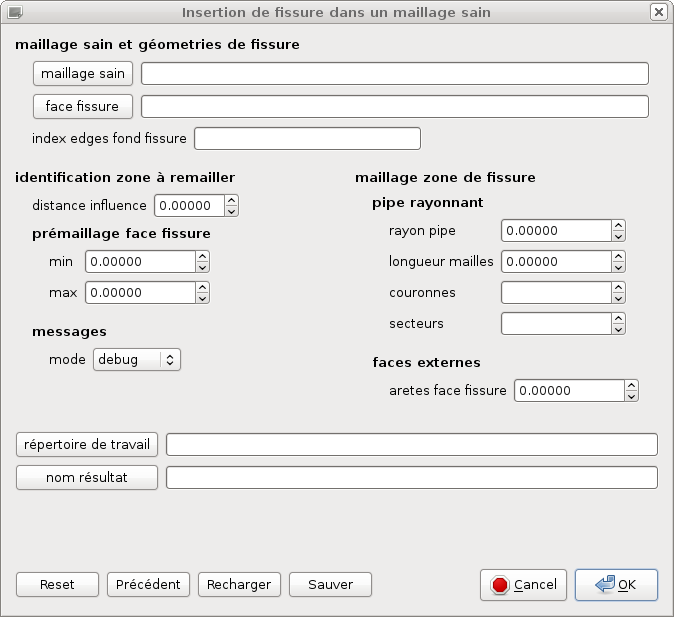
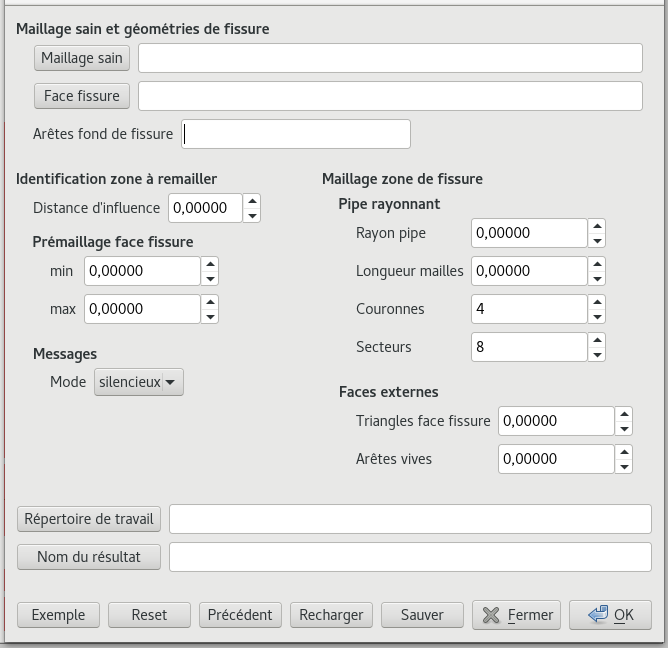
Mise à jour documentation

diff --git a/src/Tools/blocFissure/doc/gui.rst b/src/Tools/blocFissure/doc/gui.rst
@@ -6,23 +6,30 @@ With GUI
 To make the use of « Bloc Fissure » easier, a Graphical User Interface (GUI) was developed.
 Inputs are similar to those of :ref:`script mode <script>`. GUI is accessible in the SMESH extension *Add a crack in a mesh*
 
-.. figure:: images/BF_GUI_capture.png
-   :width: 700
+.. image:: images/BF_GUI_capture.png
+   :scale: 100
    :align: center
+   :alt: Window of the graphical interface
 
-   Windows of the graphical interface
+Window of the graphical interface
 
 +------------------------------------------------------------------------------------------------------------------+
 |       GUI parameters                                                                                             |
 +======================+===================================+=======================================================+
-| **maillageSain**     | *[string]*                        |  Relative address of the input structure 3D mesh      |
+| **Maillage sain**    | *[string]*                        |  Relative address of the input structure 3D mesh      |
 |                      | ex: mesh/maillage.med             |  in MED format (base is repertoire de travail)        |
 +----------------------+-----------------------------------+-------------------------------------------------------+
-| **FaceFissure**      | *[string]*                        |  Relative address of the input crack geometry         |
-|                      | ex: mesh/fissure.brep             |  in BREP format (base is repertoire de travail)       |
+| **Face fissure**     | *[string]*                        |  Relative address of the input crack geometry in      |
+|                      | ex: mesh/fissure.xao              |  BREP or XAO format (base is repertoire de travail)   |
 +----------------------+-----------------------------------+-------------------------------------------------------+
-| **index edges fond   | *[list of integers]*              |  List of edges number which define the crack front    |
-| fissure**            | ex: [1,2]                         |                                                       |
+| **Arêtes fond        | *[list of strings]*               |  Definition of the crack front:                       |
+| fissure**            | ex: ["F_1", "F_2"]                |  If XAO: list of the names of the edge group(s)       |
++----------------------+-----------------------------------+-------------------------------------------------------+
+|                      | *[list of integers]*              |  If BREP (or XAO): list of edges number in GEOM       |
+|                      | ex: [1,2]                         |                                                       |
++----------------------+-----------------------------------+-------------------------------------------------------+
+| **Distance           | *[float]*                         |  Length of influence - distance that defines the      |
+| d'influence**        | ex: 20.0000                       |  size of the extracted Box around the crack           |
 +----------------------+-----------------------------------+-------------------------------------------------------+
 | **min**              | *[float]*                         |  Float defining the minimum size of elements          |
 |                      | ex: 1.00000                       |  to mesh the crack                                    |
@@ -30,40 +37,40 @@ Inputs are similar to those of :ref:`script mode <script>`. GUI is accessible in
 | **max**              | *[float]*                         |  Float defining the maximum size of elements          |
 |                      | ex: 10.0000                       |  to mesh the crack                                    |
 +----------------------+-----------------------------------+-------------------------------------------------------+
-| **distance           | *[float]*                         |  Length of influence - distance that defines the      |
-| influence**          | ex: 20.0000                       |  size of the extracted Box around the crack           |
-+----------------------+-----------------------------------+-------------------------------------------------------+
-| **rayon pipe**       | *[float]*                         |  Radius of the tore around the front                  |
+| **Rayon pipe**       | *[float]*                         |  Radius of the tore around the front                  |
 |                      | ex: 5.00000                       |                                                       |
 +----------------------+-----------------------------------+-------------------------------------------------------+
-| **longueur mailles** | *[float]*                         |  Length of the segments of the tore along crack front |
+| **Longueur mailles** | *[float]*                         |  Length of the segments of the tore along crack front |
 |                      | ex: 5.00000                       |                                                       |
 +----------------------+-----------------------------------+-------------------------------------------------------+
-|  **couronnes**       | *[integer]*                       |  Number of radial segment of the tore                 |
+| **Couronnes**        | *[integer]*                       |  Number of radial segment of the tore                 |
 |                      | ex: 5                             |                                                       |
 +----------------------+-----------------------------------+-------------------------------------------------------+
-| **secteurs**         | *[integer]*                       |  Number of sectors of the tore                        |
+| **Secteurs**         | *[integer]*                       |  Number of sectors of the tore                        |
 |                      | ex: 16                            |                                                       |
 +----------------------+-----------------------------------+-------------------------------------------------------+
-| **arete face         | *[float]*                         |  Mesh size of elements for the Box remeshing          |
+| **Triangles face     | *[float]*                         |  Mesh size of elements for the Box remeshing          |
 | fissure**            | ex: 5.0000                        |                                                       |
 +----------------------+-----------------------------------+-------------------------------------------------------+
-| **repertoire de      | *[string]*                        |  Absolute address of the directory where files are    |
+| **Répertoire de      | *[string]*                        |  Absolute address of the directory where files are    |
 | travail**            | ex: /home/A123456                 |  saved                                                |
 +----------------------+-----------------------------------+-------------------------------------------------------+
-| **nom résultat**     | *[string]*                        |  Name of the resulting mesh                           |
+| **Nom du résultat**  | *[string]*                        |  Name of the resulting mesh                           |
 |                      | ex: maillage_fissure              |                                                       |
 +----------------------+-----------------------------------+-------------------------------------------------------+
-| **mode**             | *[choice]*                        |  Verbose mode for Salome messages                     |
+| **Mode**             | *[choice]*                        |  Verbose mode for Salome messages                     |
 |                      | ex: verbose                       |                                                       |
 +----------------------+-----------------------------------+-------------------------------------------------------+
 
-.. figure:: images/parametres_GUI.png
+.. image:: images/parametres_GUI.png
    :width: 350
    :align: center
+   :alt: Tore parameters
 
-   Tore parameters
+Tore parameters
 
+
+- **Exemple**: fills the panels with a test-case
 
 - **Reset**: clears all the parameters
 
@@ -73,7 +80,7 @@ Inputs are similar to those of :ref:`script mode <script>`. GUI is accessible in
 
 - **Sauver**: save a .dic file with the active parameters
 
-- **Cancel**: exit GUI
+- **Fermer**: exit GUI
 
-- **Sauver**: Launch calculation
+- **OK**: Launch calculation
 

diff --git a/src/Tools/blocFissure/doc/scripts.rst b/src/Tools/blocFissure/doc/scripts.rst
@@ -15,10 +15,12 @@ The main command of « Bloc Fissure » is the casStandard function. It has a sin
 | **maillageSain**     | *[string]*                        |  Absolute address of the input structure 3D mesh      |
 |                      |                                   |  in MED format                                        |
 +----------------------+-----------------------------------+-------------------------------------------------------+
-| **BrepFaceFissure**  | *[string]*                        |  Absolute address of the input crack geometry         |
-|                      |                                   |  in BREP format                                       |
+| **CAOFaceFissure**   | *[string]*                        |  Absolute address of the input crack geometry         |
+|                      |                                   |  in XAO or BREP format                                |
 +----------------------+-----------------------------------+-------------------------------------------------------+
-| **edgeFissIds**      | *[list of integers]*              |  List of edges number which define the crack front    |
+| **edgeFiss**         | *[list of strings]*               |  List of edges group which define the crack front     |
++----------------------+-----------------------------------+-------------------------------------------------------+
+|                      | *[list of integers]*              |  List of edges number which define the crack front    |
 +----------------------+-----------------------------------+-------------------------------------------------------+
 | **meshBrep**         | *[list of 2 floats]*              |  List of two floats defining respectively minimum and |
 |                      |                                   |  maximum size of elements of the crack mesh           |
@@ -47,6 +49,7 @@ Geometrical parameters of the tore are illustrated :
 .. image:: images/parametres.png
    :width: 350
    :align: center
+   :alt: Geometrical parameters of the tore
 
 Different levels of verbose are available. Use one of this 4 optional functions to set verbose type:
 
@@ -68,8 +71,8 @@ Different levels of verbose are available. Use one of this 4 optional functions 
 
   dicoParams = dict(nomCas            = 'cubeFiss',
                     maillageSain      = "/home/A123456/BF/cube.med",
-                    brepFaceFissure   = "/home/A123456/BF/fiss.brep",
-                    edgeFissIds       = [4],
+                    CAOFaceFissure    = "/home/A123456/BF/fiss.xao",
+                    edgeFiss          = ["Fond"],
                     lgInfluence       = 20.,
                     meshBrep          = (5.,10.),
                     rayonPipe         = 5.,

diff --git a/src/Tools/blocFissure/doc/testcases.rst b/src/Tools/blocFissure/doc/testcases.rst
@@ -92,6 +92,8 @@ All 13 cases are shown Table 2. Two views show the whole cracked structure and a
 |   :width: 400                             |    :width: 400                               |
 |   :align: center                          |    :align: center                            |
 +-------------------------------------------+----------------------------------------------+
+| tube                                                                                     |
++-------------------------------------------+----------------------------------------------+
 
 .. _pipeTC:
 
@@ -152,7 +154,7 @@ modify the file ``CasTests/execution_Cas.py`` and change::
 
 And change from 0 to 1 of the index of the test you want to launch::
 
-    torun = [ 0, 0, 0, 0, 0, 0, 0, 0, 0, 0, 0, 0, 0, 0, 0, 0, 0, 1, 0, 0, 0, 0, 0, 0, 0, 0, 0, 0]
+    torun = [ 0, 0, 0, 0, 0, 0, 0, 0, 0, 0, 0, 0, 0, 0, 0, 0, 0, 1, 0, 0, 0, 0, 0, 0, 0, 0, 0, 0, 0]
 
 then launch the test cases::
 
@@ -170,7 +172,7 @@ The index of each test is the position of the test in the following table, from 
 +--------------------+--------------------+--------------------+-----------------+-----------------+
 | cubeMilieu         | ellipse_2          | fissureCoude_1     | fissureCoude_6  | vis_1           |
 +--------------------+--------------------+--------------------+-----------------+-----------------+
-| cubeTransverse     | eprouvetteCourbe   | fissureCoude_10    | fissureCoude_7  |                 |
+| cubeTransverse     | eprouvetteCourbe   | fissureCoude_10    | fissureCoude_7  | tube            |
 +--------------------+--------------------+--------------------+-----------------+-----------------+
 | cylindre           | eprouvetteDroite   | fissureCoude_2     | fissureCoude_8  |                 |
 +--------------------+--------------------+--------------------+-----------------+-----------------+

diff --git a/src/Tools/blocFissure/doc/principles.rst b/src/Tools/blocFissure/doc/principles.rst
@@ -10,7 +10,7 @@ In order to illustrate « Bloc Fissure » principle, the simple case of a crack 
 
 1. The first step consists in loading the structure mesh (a) as well as the crack surface geometry (b).
 
-2. The crack is then meshed (c). A length criterion defines the size of the extracted « Box ». This length is called the length of influence. Every element having a node within this zone is included in the « Box ». A second operation adds elements in the Box in order to have continuous faces (d).
+2. The crack is then meshed (c). A length criterion defines the size of the extracted « Box ». This length is called the length of influence. Every element of the structure mesh having a node within this zone is included in the « Box ». A second operation adds those elements in the Box in order to have continuous faces (d).
 
 3. A geometrical Box is reconstructed from the extracted Box mesh. The reconstruction is limited to faces which intersect the crack (e). A torus is created following the crack front (f).
 
@@ -63,6 +63,7 @@ The length of influence is important. It defines the size of the extracted Box. 
 .. image:: images/longueur_influence.png
    :width: 600
    :align: center
+   :alt: The length of influence
 
 Every element having a node at a smaller distance to the crack than the length of influence is selected. Then a filling algorithm fulfill the Box with elements to get a Box. The Box is not limited to rectangular shapes. See the section on :ref:`test cases <test_cases>` to see examples.
 
@@ -90,6 +91,7 @@ For similar reasons, crack front edges must exceed from the structure mesh. The 
 
 .. image:: images/schema_lignes1.png
    :scale: 80
+   :alt: Crack front edges
 
 5) **Loss of element groups:**
 

diff --git a/src/Tools/blocFissure/doc/pipes.rst b/src/Tools/blocFissure/doc/pipes.rst
@@ -6,9 +6,10 @@ For bended pipes
 Cracked bended pipes being a common encountered case, a specific module was developed with a Graphic User Interface (GUI). GUI is accessible in the SMESH extension *Meshed Pipe with a crack*. Compared to the classical use of « Bloc Fissure », this extension also generate the pipe mesh and the crack geometry from geometrical information.
 
 
-.. figure:: images/Capture_GUI_pipes_2.png
+.. image:: images/Capture_GUI_pipes_2.png
    :width: 800
    :align: center
+   :alt: Print screen of GUI
 
    Print screen of GUI of the extension *Meshed Pipe with a crack*
 
